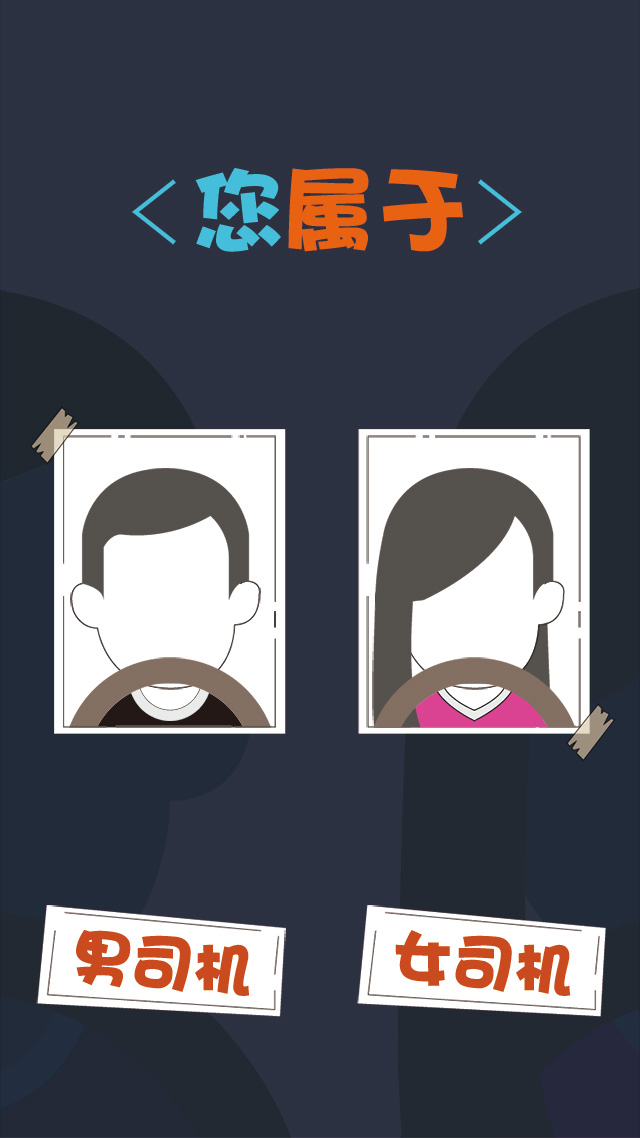
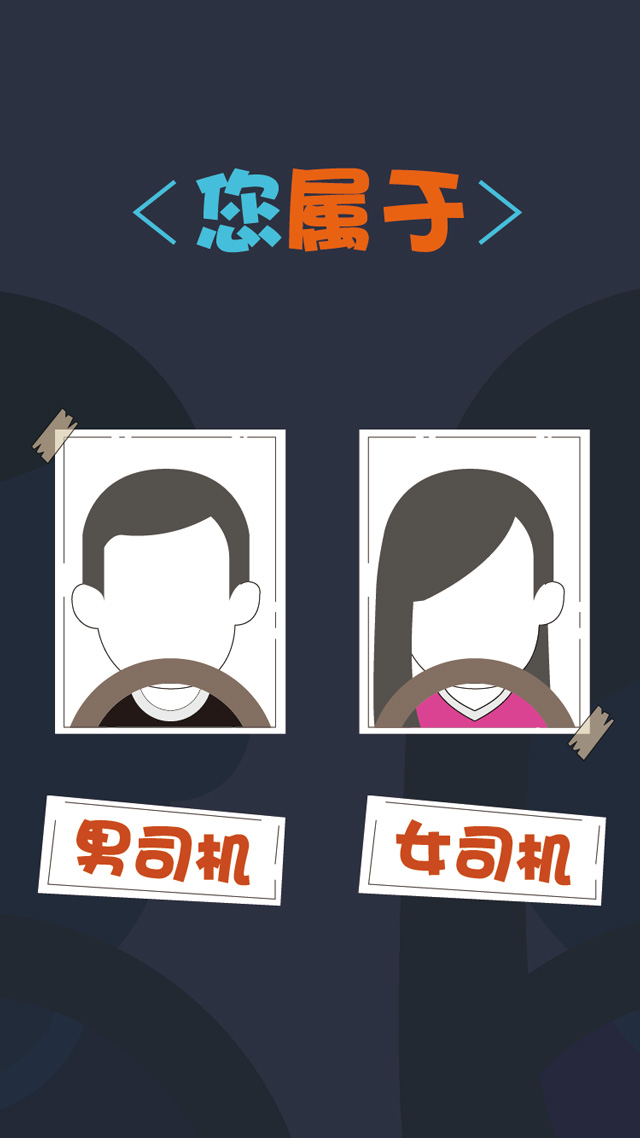
第二页男女修改

diff --git a/css/style.less b/css/style.less
@@ -1290,14 +1290,14 @@ html#html body {height: 100%;}
 	}
 	.btn2-1{
 		width: 120*@rem;
-		height: 45*@rem;
-		bottom: 64*@rem;
+		height: 245*@rem;
+		bottom: 115*@rem;
 		left: 22*@rem;
 	}
 	.btn2-2{
 		width: 120*@rem;
-		height: 45*@rem;
-		bottom: 64*@rem;
+		height: 245*@rem;
+		bottom: 115*@rem;
 		right: 22*@rem;
 	}
 	.btn3-1{

diff --git a/css/style.css b/css/style.css
@@ -3767,14 +3767,14 @@ html#html body {
 }
 .h5-cons .btn2-1 {
   width: 6rem;
-  height: 2.25rem;
-  bottom: 3.2rem;
+  height: 12.25rem;
+  bottom: 5.75rem;
   left: 1.1rem;
 }
 .h5-cons .btn2-2 {
   width: 6rem;
-  height: 2.25rem;
-  bottom: 3.2rem;
+  height: 12.25rem;
+  bottom: 5.75rem;
   right: 1.1rem;
 }
 .h5-cons .btn3-1 {
